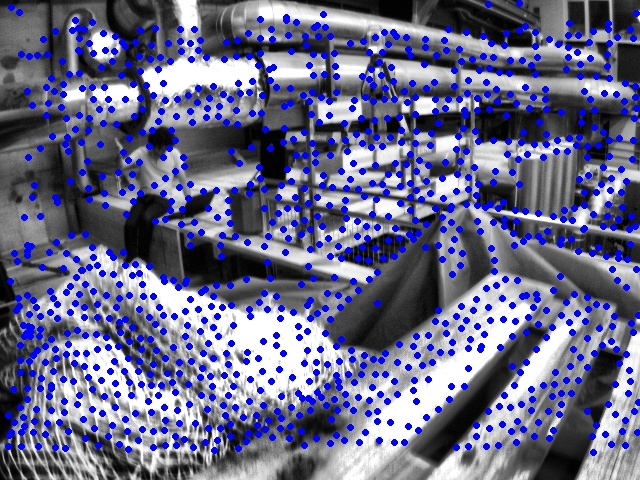
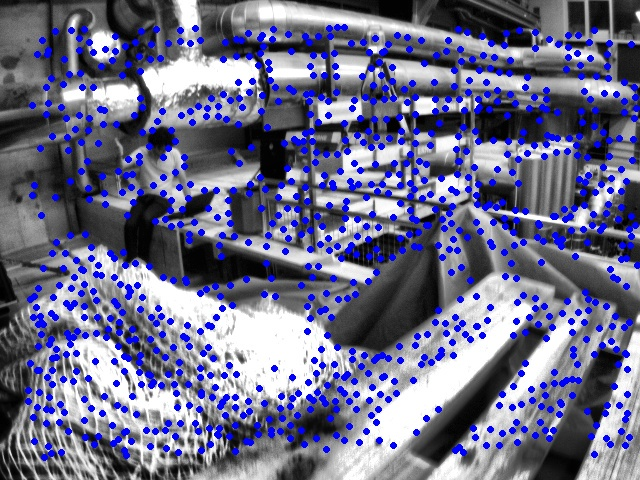
use function calc calculate TVL1 optical flow

diff --git a/Desktop/main.cpp b/Desktop/main.cpp
@@ -457,39 +457,39 @@ void procOneScale(const Mat_<float>& I0, const Mat_<float>& I1, Mat_<float>& u1,
 //    CV_DbgAssert( u1.size() == I0.size() );
 //    CV_DbgAssert( u2.size() == u1.size() );
 
-    Mat_<float> I1x(I0.cols, I0.rows);
-    Mat_<float> I1y(I0.cols, I0.rows);
+    Mat_<float> I1x(I0.rows, I0.cols);
+    Mat_<float> I1y(I0.rows, I0.cols);
     centeredGradient(I1, I1x, I1y);
 
-    Mat_<float> flowMap1(I0.cols, I0.rows);
-    Mat_<float> flowMap2(I0.cols, I0.rows);
+    Mat_<float> flowMap1(I0.rows, I0.cols);
+    Mat_<float> flowMap2(I0.rows, I0.cols);
 
-    Mat_<float> I1w(I0.cols, I0.rows);
-    Mat_<float> I1wx(I0.cols, I0.rows);
-    Mat_<float> I1wy(I0.cols, I0.rows);
+    Mat_<float> I1w(I0.rows, I0.cols);
+    Mat_<float> I1wx(I0.rows, I0.cols);
+    Mat_<float> I1wy(I0.rows, I0.cols);
 
-    Mat_<float> grad(I0.cols, I0.rows);
-    Mat_<float> rho_c(I0.cols, I0.rows);
+    Mat_<float> grad(I0.rows, I0.cols);
+    Mat_<float> rho_c(I0.rows, I0.cols);
 
-    Mat_<float> v1(I0.cols, I0.rows);
-    Mat_<float> v2(I0.cols, I0.rows);
+    Mat_<float> v1(I0.rows, I0.cols);
+    Mat_<float> v2(I0.rows, I0.cols);
 
-    Mat_<float> p11(I0.cols, I0.rows);
-    Mat_<float> p12(I0.cols, I0.rows);
-    Mat_<float> p21(I0.cols, I0.rows);
-    Mat_<float> p22(I0.cols, I0.rows);
+    Mat_<float> p11(I0.rows, I0.cols);
+    Mat_<float> p12(I0.rows, I0.cols);
+    Mat_<float> p21(I0.rows, I0.cols);
+    Mat_<float> p22(I0.rows, I0.cols);
     p11.setTo(0);
     p12.setTo(0);
     p21.setTo(0);
     p22.setTo(0);
 
-    Mat_<float> div_p1(I0.cols, I0.rows);
-    Mat_<float> div_p2(I0.cols, I0.rows);
+    Mat_<float> div_p1(I0.rows, I0.cols);
+    Mat_<float> div_p2(I0.rows, I0.cols);
 
-    Mat_<float> u1x(I0.cols, I0.rows);
-    Mat_<float> u1y(I0.cols, I0.rows);
-    Mat_<float> u2x(I0.cols, I0.rows);
-    Mat_<float> u2y(I0.cols, I0.rows);
+    Mat_<float> u1x(I0.rows, I0.cols);
+    Mat_<float> u1y(I0.rows, I0.cols);
+    Mat_<float> u2x(I0.rows, I0.cols);
+    Mat_<float> u2y(I0.rows, I0.cols);
 
     const float l_t = static_cast<float>(lambda * theta);
     const float taut = static_cast<float>(tau / theta);
@@ -499,6 +499,8 @@ void procOneScale(const Mat_<float>& I0, const Mat_<float>& I1, Mat_<float>& u1,
 
     for (int warpings = 0; warpings < warps; ++warpings)
     {
+        printf("warping: %d\n", warpings);
+
         // compute the warping of the target image and its derivatives
         buildFlowMap(u1, u2, flowMap1, flowMap2);
 //        my_remap<float>(I1, I1w, flowMap1, flowMap2);
@@ -508,63 +510,65 @@ void procOneScale(const Mat_<float>& I0, const Mat_<float>& I1, Mat_<float>& u1,
 //        flowMap1.convertTo(flowMap1_, CV_32F);
 //        flowMap2.convertTo(flowMap2_, CV_32F)
 
-//        printf("before remap ...");
-//        cout << flowMap1 << endl;
-//        remap(I1, I1w, flowMap1, flowMap2, INTER_CUBIC);
-//        remap(I1x, I1wx, flowMap1, flowMap2, INTER_CUBIC);
-//        remap(I1y, I1wy, flowMap1, flowMap2, INTER_CUBIC);
+        printf("before remap ...");
+        remap(I1, I1w, flowMap1, flowMap2, INTER_CUBIC);
+        remap(I1x, I1wx, flowMap1, flowMap2, INTER_CUBIC);
+        remap(I1y, I1wy, flowMap1, flowMap2, INTER_CUBIC);
 
-//        printf("warpings = %d\n", warpings);
+        printf("after remap ...");
 //        cv::imshow("I1", I1);
 //        cv::imshow("I1w", I1w);
 //        cv::waitKey(0);
 
         // rho = I1(x + u) - I1(x + u) * u - I0(x)
         calcGradRho(I0, I1w, I1wx, I1wy, u1, u2, grad, rho_c);
+        printf("calc gard rho ...");
 
-//        for (int sy = 0; sy < I0.rows; sy += block_y){
-//            for (int sx = 0; sx < I0.cols; sx += block_x) {
-//                float error = 1e7;
-//
-//                Mat_<float> I1wx_ = I1wx(Rect(sx, sy, block_x, block_y));
-//                Mat_<float> I1wy_ = I1wy(Rect(sx, sy, block_x, block_y));
-//                Mat_<float> u1_ = u1(Rect(sx, sy, block_x, block_y));
-//                Mat_<float> u2_ = u2(Rect(sx, sy, block_x, block_y));
-//                Mat_<float> grad_ = grad(Rect(sx, sy, block_x, block_y));
-//                Mat_<float> rho_c_ = rho_c(Rect(sx, sy, block_x, block_y));
-//                Mat_<float> v1_ = v1(Rect(sx, sy, block_x, block_y));
-//                Mat_<float> v2_ = v2(Rect(sx, sy, block_x, block_y));
-//                Mat_<float> p11_ = p11(Rect(sx, sy, block_x, block_y));
-//                Mat_<float> p12_ = p12(Rect(sx, sy, block_x, block_y));
-//                Mat_<float> p21_ = p21(Rect(sx, sy, block_x, block_y));
-//                Mat_<float> p22_ = p22(Rect(sx, sy, block_x, block_y));
-//                Mat_<float> div_p1_ = div_p1(Rect(sx, sy, block_x, block_y));
-//                Mat_<float> div_p2_ = div_p2(Rect(sx, sy, block_x, block_y));
-//                Mat_<float> u1x_ = u1x(Rect(sx, sy, block_x, block_y));
-//                Mat_<float> u1y_ = u1y(Rect(sx, sy, block_x, block_y));
-//                Mat_<float> u2x_ = u2x(Rect(sx, sy, block_x, block_y));
-//                Mat_<float> u2y_ = u2y(Rect(sx, sy, block_x, block_y));
-//
-//                for (int n = 0; error > scaledEpsilon && n < iterations; ++n) {
-//                    // estimate the values of the variable (v1, v2) (thresholding operator TH)
-//                    estimateV(I1wx_, I1wy_, u1_, u2_, grad_, rho_c_, v1_, v2_, l_t);
-//
-//                    // compute the divergence of the dual variable (p1, p2)
-//                    divergence(p11_, p12_, div_p1_);
-//                    divergence(p21_, p22_, div_p2_);
-//
-//                    // estimate the values of the optical flow (u1, u2)
-//                    error = estimateU(v1_, v2_, div_p1_, div_p2_, u1_, u2_, static_cast<float>(theta));
-//
-//                    // compute the gradient of the optical flow (Du1, Du2)
-//                    forwardGradient(u1_, u1x_, u1y_);
-//                    forwardGradient(u2_, u2x_, u2y_);
-//
-//                    // estimate the values of the dual variable (p1, p2)
-//                    estimateDualVariables(u1x_, u1y_, u2x_, u2y_, p11_, p12_, p21_, p22_, taut);
-//                }
-//            }
-//        }
+        cout << I0.size() << ' ' << I1.size() << I1w.size() << endl;
+
+        for (int sy = 0; sy < I0.rows; sy += block_y){
+            for (int sx = 0; sx < I0.cols; sx += block_x) {
+                float error = 1e7;
+
+                Mat_<float> I1wx_ = I1wx(Rect(sx, sy, block_x, block_y));
+                Mat_<float> I1wy_ = I1wy(Rect(sx, sy, block_x, block_y));
+                Mat_<float> u1_ = u1(Rect(sx, sy, block_x, block_y));
+                Mat_<float> u2_ = u2(Rect(sx, sy, block_x, block_y));
+                Mat_<float> grad_ = grad(Rect(sx, sy, block_x, block_y));
+                Mat_<float> rho_c_ = rho_c(Rect(sx, sy, block_x, block_y));
+                Mat_<float> v1_ = v1(Rect(sx, sy, block_x, block_y));
+                Mat_<float> v2_ = v2(Rect(sx, sy, block_x, block_y));
+                Mat_<float> p11_ = p11(Rect(sx, sy, block_x, block_y));
+                Mat_<float> p12_ = p12(Rect(sx, sy, block_x, block_y));
+                Mat_<float> p21_ = p21(Rect(sx, sy, block_x, block_y));
+                Mat_<float> p22_ = p22(Rect(sx, sy, block_x, block_y));
+                Mat_<float> div_p1_ = div_p1(Rect(sx, sy, block_x, block_y));
+                Mat_<float> div_p2_ = div_p2(Rect(sx, sy, block_x, block_y));
+                Mat_<float> u1x_ = u1x(Rect(sx, sy, block_x, block_y));
+                Mat_<float> u1y_ = u1y(Rect(sx, sy, block_x, block_y));
+                Mat_<float> u2x_ = u2x(Rect(sx, sy, block_x, block_y));
+                Mat_<float> u2y_ = u2y(Rect(sx, sy, block_x, block_y));
+
+                for (int n = 0; error > scaledEpsilon && n < iterations; ++n) {
+                    // estimate the values of the variable (v1, v2) (thresholding operator TH)
+                    estimateV(I1wx_, I1wy_, u1_, u2_, grad_, rho_c_, v1_, v2_, l_t);
+
+                    // compute the divergence of the dual variable (p1, p2)
+                    divergence(p11_, p12_, div_p1_);
+                    divergence(p21_, p22_, div_p2_);
+
+                    // estimate the values of the optical flow (u1, u2)
+                    error = estimateU(v1_, v2_, div_p1_, div_p2_, u1_, u2_, static_cast<float>(theta));
+
+                    // compute the gradient of the optical flow (Du1, Du2)
+                    forwardGradient(u1_, u1x_, u1y_);
+                    forwardGradient(u2_, u2x_, u2y_);
+
+                    // estimate the values of the dual variable (p1, p2)
+                    estimateDualVariables(u1x_, u1y_, u2x_, u2y_, p11_, p12_, p21_, p22_, taut);
+                }
+            }
+        }
 
         float error = 1e7;
         for (int n = 0; error > scaledEpsilon && n < iterations; ++n) {
@@ -588,7 +592,7 @@ void procOneScale(const Mat_<float>& I0, const Mat_<float>& I1, Mat_<float>& u1,
     }
 }
 
-void calc(const Mat_<float> &I0, const Mat_<float> &I1, Mat_<float> &flow1, Mat_<float> &flow2)
+void calc(const Mat_<float> &I0, const Mat_<float> &I1, Mat_<cv::Point2f> &flow)
 {
 
 //    CV_Assert( nscales > 0 );
@@ -599,8 +603,8 @@ void calc(const Mat_<float> &I0, const Mat_<float> &I1, Mat_<float> &flow1, Mat_
     u1s.resize(nscales);
     u2s.resize(nscales);
 
-//    I0.convertTo(I0s[0], I0s[0].depth(), I0.depth() == CV_8U ? 1.0 : 255.0);
-//    I1.convertTo(I1s[0], I1s[0].depth(), I1.depth() == CV_8U ? 1.0 : 255.0);
+    I0.convertTo(I0s[0], I0s[0].depth(), I0.depth() == CV_8U ? 1.0 : 255.0);
+    I1.convertTo(I1s[0], I1s[0].depth(), I1.depth() == CV_8U ? 1.0 : 255.0);
 
     u1s[0].create(I0.size());
     u2s[0].create(I0.size());
@@ -637,8 +641,8 @@ void calc(const Mat_<float> &I0, const Mat_<float> &I1, Mat_<float> &flow1, Mat_
     // create the scales
     for (int s = 1; s < nscales; ++s)
     {
-//        pyrDown(I0s[s - 1], I0s[s]);
-//        pyrDown(I1s[s - 1], I1s[s]);
+        pyrDown(I0s[s - 1], I0s[s]);
+        pyrDown(I1s[s - 1], I1s[s]);
 
 //        if (I0s[s].cols < 16 || I0s[s].rows < 16)
 //        {
@@ -660,7 +664,6 @@ void calc(const Mat_<float> &I0, const Mat_<float> &I1, Mat_<float> &flow1, Mat_
 
         // compute the optical flow at the current scale
         procOneScale(I0s[s], I1s[s], u1s[s], u2s[s]);
-//        printf("");
 
         // if this was the last scale, finish now
         if (s == 0)
@@ -669,21 +672,21 @@ void calc(const Mat_<float> &I0, const Mat_<float> &I1, Mat_<float> &flow1, Mat_
         // otherwise, upsample the optical flow
 
         // zoom the optical flow for the next finer scale
-//        resize(u1s[s], u1s[s - 1], I0s[s - 1].size());
-//        resize(u2s[s], u2s[s - 1], I0s[s - 1].size());
+        resize(u1s[s], u1s[s - 1], I0s[s - 1].size());
+        resize(u2s[s], u2s[s - 1], I0s[s - 1].size());
 
         // scale the optical flow with the appropriate zoom factor
-//        multiply(u1s[s - 1], Scalar::all(2), u1s[s - 1]);
-//        multiply(u2s[s - 1], Scalar::all(2), u2s[s - 1]);
+        multiply(u1s[s - 1], Scalar::all(2), u1s[s - 1]);
+        multiply(u2s[s - 1], Scalar::all(2), u2s[s - 1]);
     }
 
-//    flow.create(u1s[0].size());
-//    for (int i = 0; i < u1s[0].rows; i++)
-//        for (int j = 0; j < u1s[0].cols; j++)
-//        {
-//            flow(i, j).x = u1s[0](i, j);
-//            flow(i, j).y = u2s[0](i, j);
-//        }
+    flow.create(u1s[0].size());
+    for (int i = 0; i < u1s[0].rows; i++)
+        for (int j = 0; j < u1s[0].cols; j++)
+        {
+            flow(i, j).x = u1s[0](i, j);
+            flow(i, j).y = u2s[0](i, j);
+        }
 
 }
 
@@ -751,12 +754,12 @@ int main(int argc, char **argv) {
 //        printf("before calc...\n");
 //
 //        int t = clock();
-//        calc(prev_img, curr_img, flow);
+        calc(prev_img, curr_img, flow);
 //        printf("calc: %d\n", clock() - t);
-//
+
 //        t = clock();
-        cv::Ptr<cv::DenseOpticalFlow> tvl1 = cv::createOptFlow_DualTVL1();
-        tvl1->calc(prev_img, curr_img, cv_flow);
+//        cv::Ptr<cv::DenseOpticalFlow> tvl1 = cv::createOptFlow_DualTVL1();
+//        tvl1->calc(prev_img, curr_img, cv_flow);
 //        printf("opencv calc: %d\n", clock() - t);
 
 //        for (int y = 0; y < 480; y++)
@@ -782,8 +785,8 @@ int main(int argc, char **argv) {
             int x = kpts[j].x;
             int y = kpts[j].y;
 
-            kpts[j].x += cv_flow(y, x).x;
-            kpts[j].y += cv_flow(y, x).y;
+            kpts[j].x += flow(y, x).x;
+            kpts[j].y += flow(y, x).y;
 
             if (kpts[j].x > 0 && kpts[j].x < 640 && kpts[j].y > 0 && kpts[j].y < 480) {
                 kpts[cnt] = kpts[j];
@@ -795,8 +798,8 @@ int main(int argc, char **argv) {
         }
         kpts.resize(cnt);
 
-        // cv::imshow("img", show_img);
-        // cv::waitKey(0);
+//        cv::imshow("img", show_img);
+//        cv::waitKey(0);
         cv::imwrite(img_path + "res" + std::to_string(i) + ".jpg", show_img);
         prev_img.release();
         show_img.release();
